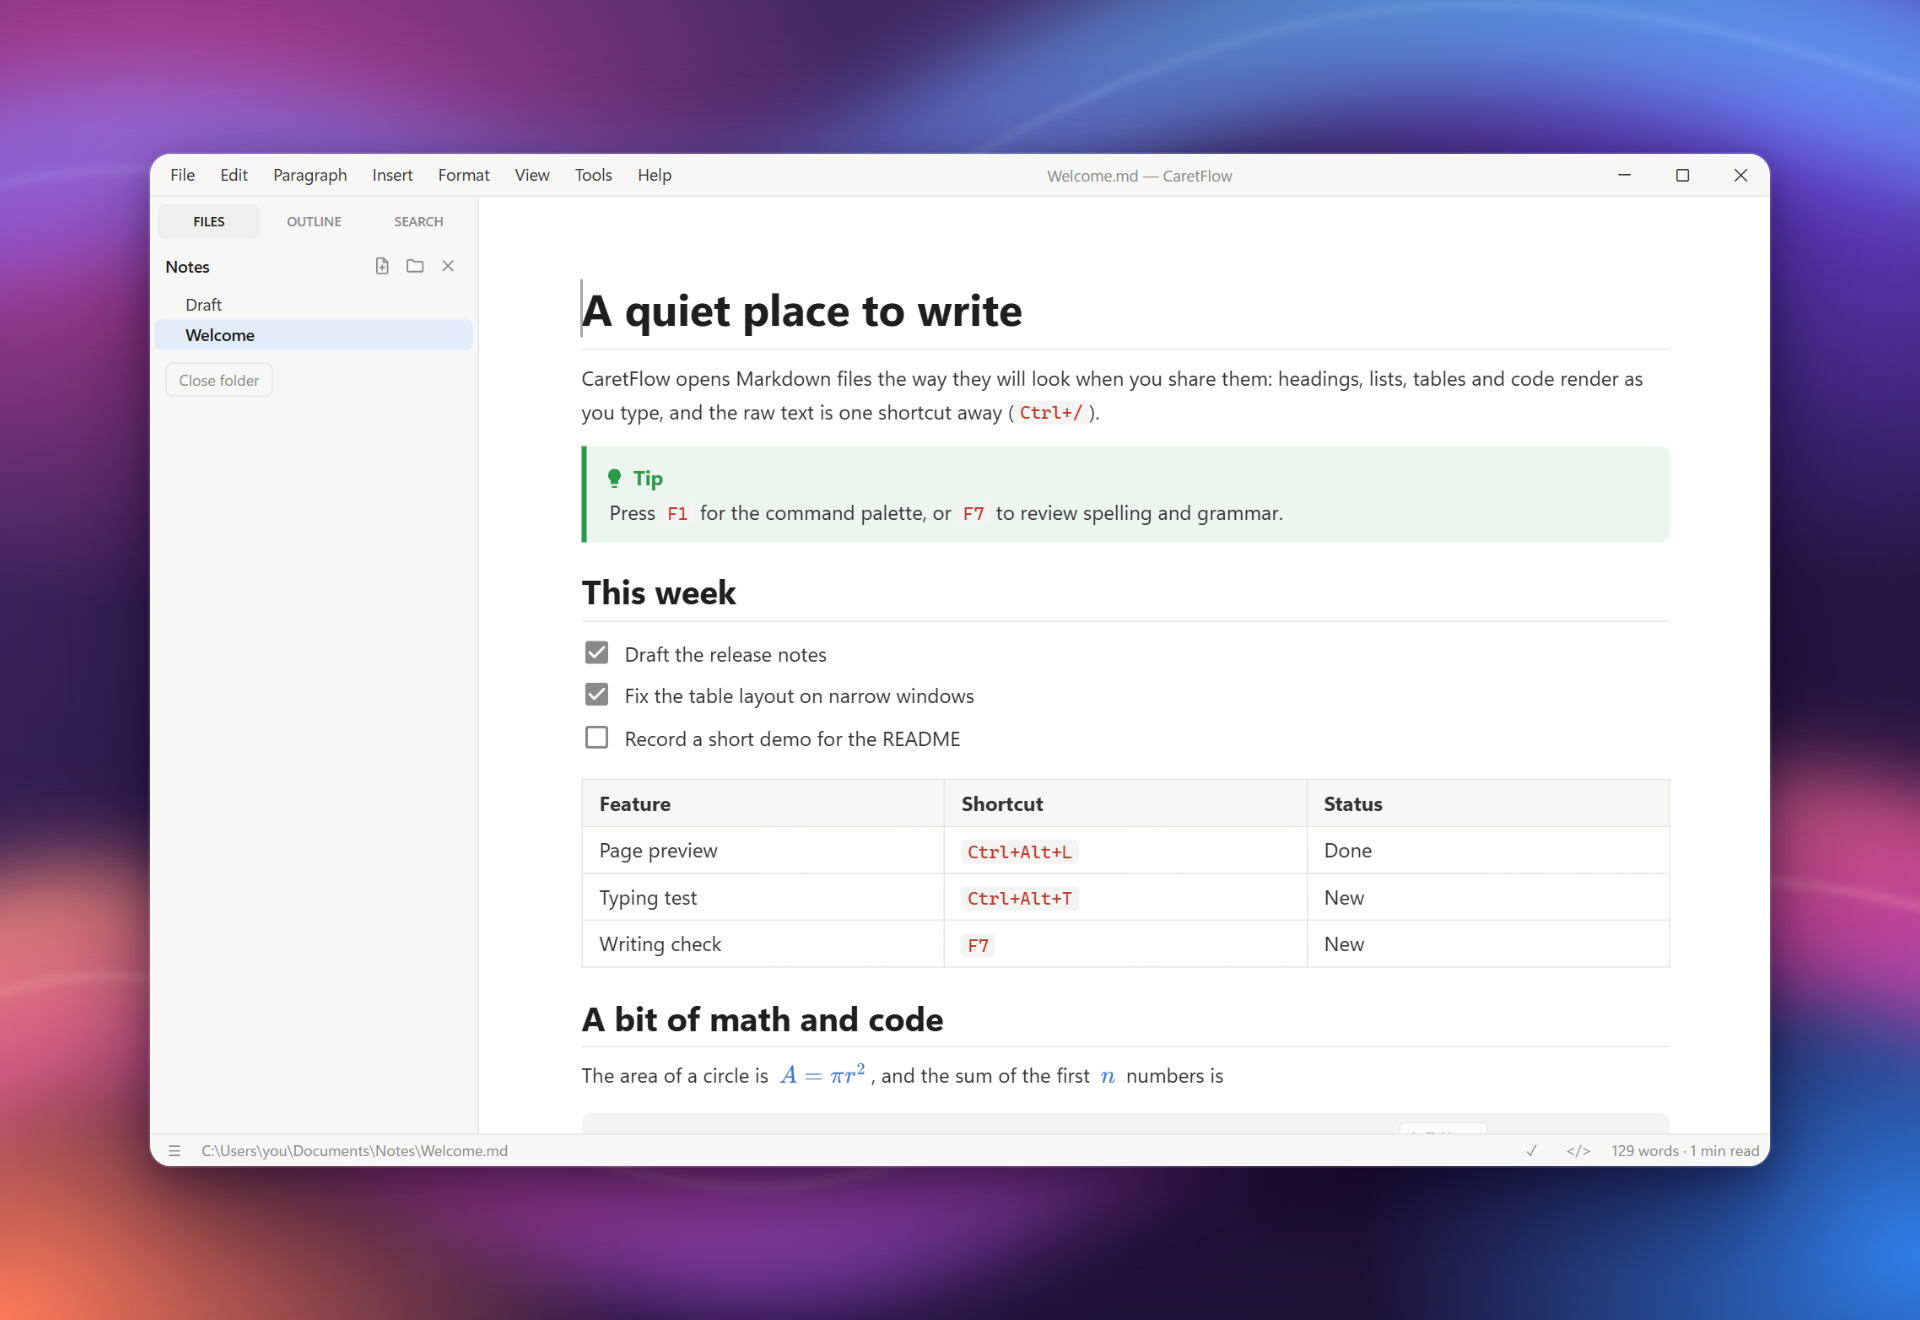
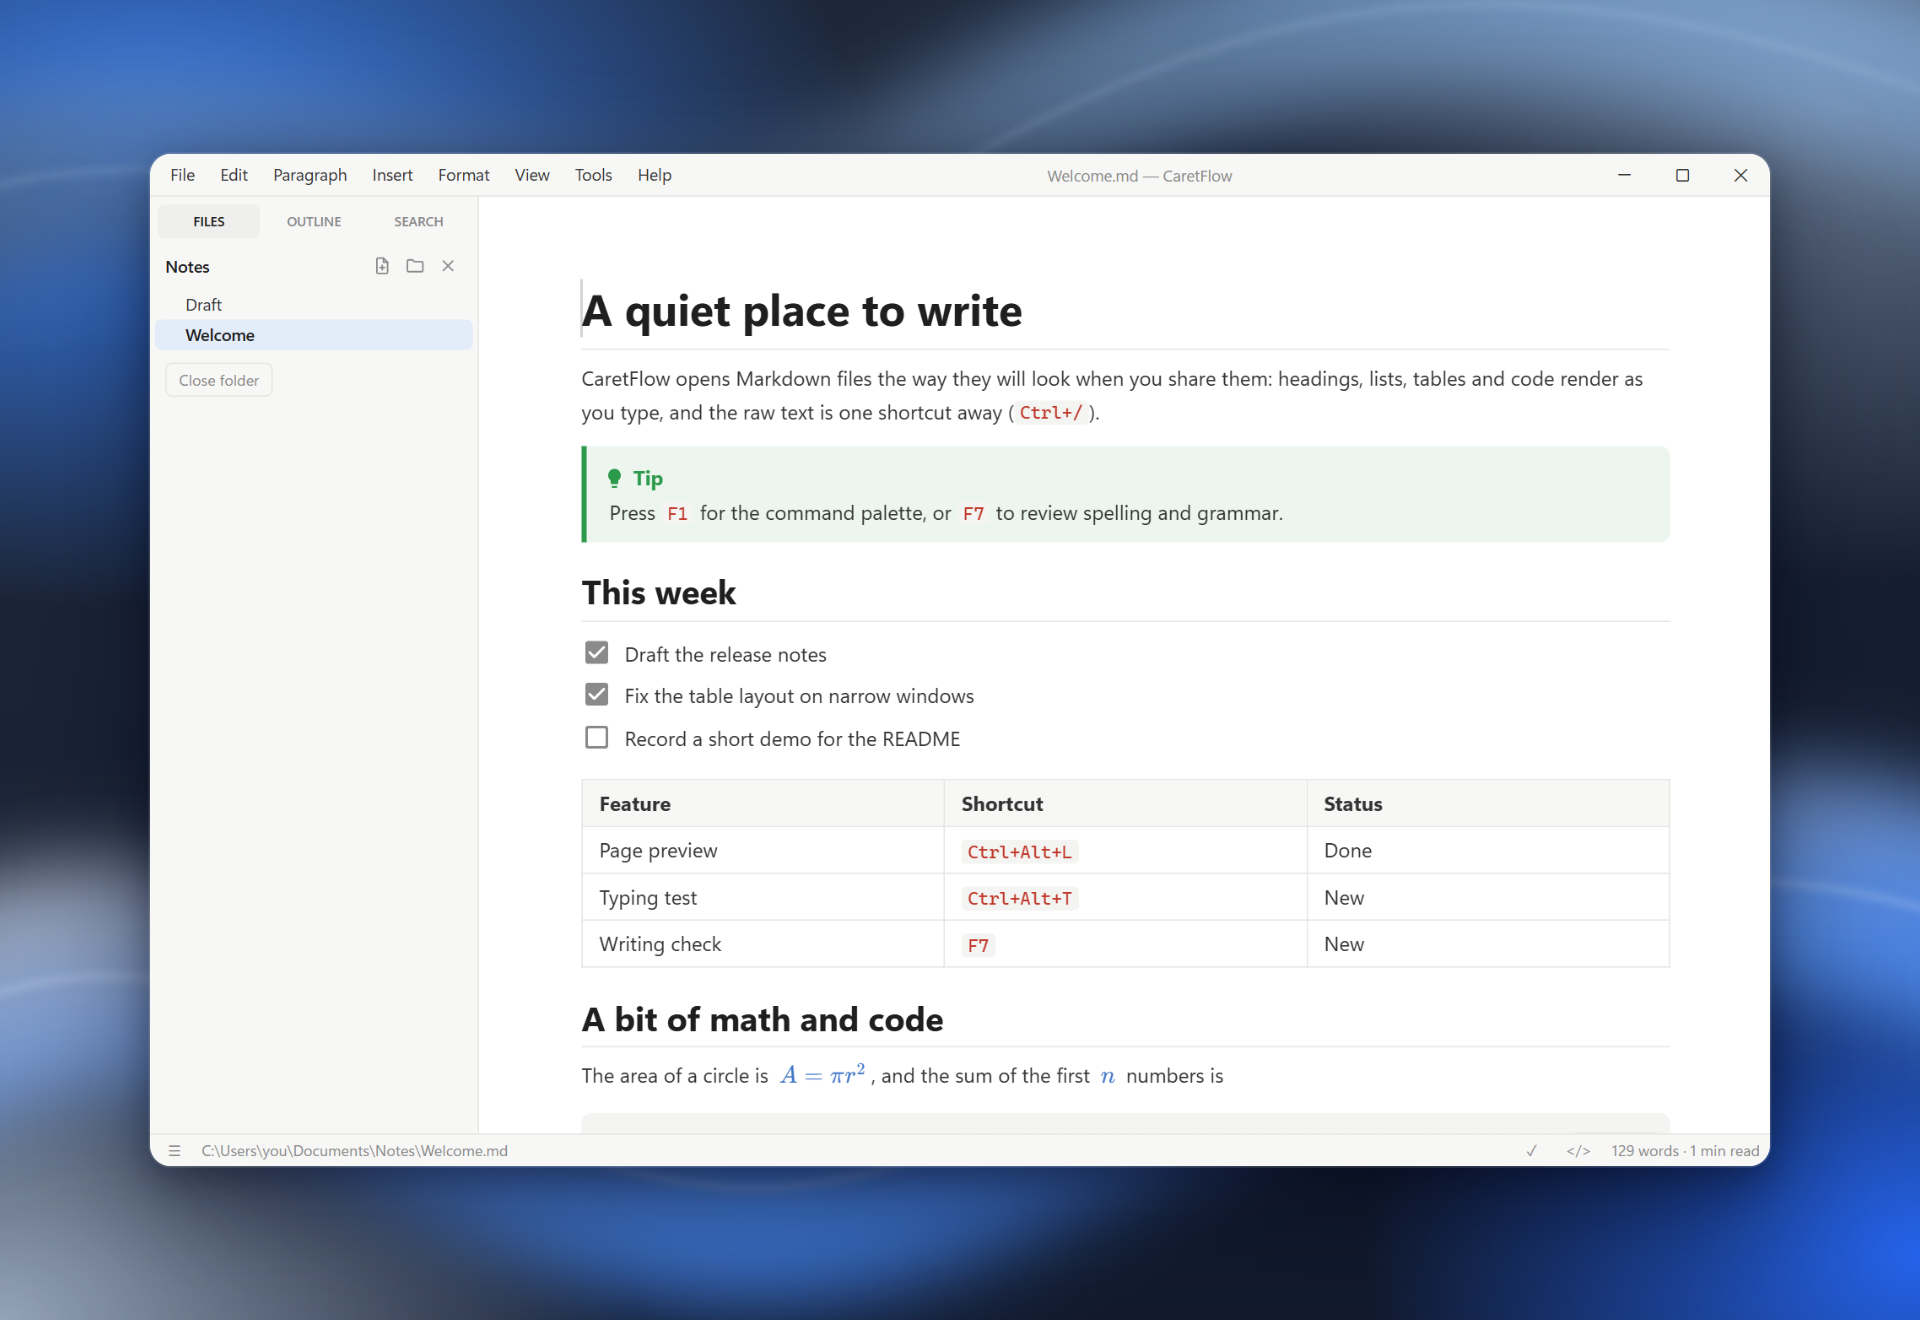
All-in-one tagline, shorter README, new screenshots
CaretFlow now calls itself the all-in-one Markdown editor: fast, minimal,
complete (README, About dialog, package descriptions, Markdown guide).
The README is a short overview with a screenshot grid; the comparison
with other editors is gone. Screenshots are regenerated, the hero on a
backdrop in the new icon colors.

Changed region(s): [[0.0, 0.0, 1.0, 1.0], [0.9062, 0.528, 1.0, 0.8076], [0.9688, 0.9318, 1.0, 0.9939]]

diff --git a/README.md b/README.md
@@ -2,169 +2,64 @@
 
 <img src="src-tauri/icons/128x128@2x.png" width="96" align="right" alt="">
 
-**A fast, quiet Markdown editor for Windows, Linux and Android.** You write, CaretFlow renders it in place:
-no split preview, no clutter. Raw Markdown and Vim are one shortcut away, and a built-in spelling
-and grammar checker catches mistakes as you type.
+**The all-in-one Markdown editor.** Fast, quiet and minimal on the surface, with everything you
+need underneath: live rendered editing, spelling and grammar, Vim, and export to PDF, Word and
+EPUB. For Windows, Linux and Android. Open source, private by default.
 
 ![CaretFlow editing a Markdown file with the file sidebar open](docs/screenshots/hero.png)
 
 <p align="center">
-  <a href="https://github.com/Sooeeren/CaretFlow/releases/latest"><b>Download the latest release</b></a> ·
+  <a href="https://github.com/Sooeeren/CaretFlow/releases/latest"><b>Download</b></a> ·
   <a href="#install">Install</a> ·
-  <a href="docs/SHORTCUTS.md">Shortcuts</a> ·
-  <a href="#documentation">Documentation</a>
+  <a href="docs/FEATURES.md">Features</a> ·
+  <a href="docs/SHORTCUTS.md">Shortcuts</a>
 </p>
 
-Built with Tauri 2 (Rust + the system webview), Milkdown/ProseMirror for live
-editing and CodeMirror 6 for source mode.
+## What's inside
+
+- **Write in the rendered document.** Tables, math, Mermaid, callouts and code render as you type; `Ctrl+/` shows the raw Markdown.
+- **Spelling & grammar, offline.** Underlines, right-click fixes and an `F7` review panel, in many languages.
+- **Vim mode** in source view, with visual block, macros and `:w`.
+- **Export** to PDF (with page preview), Word, OpenDocument, EPUB, LaTeX and HTML.
+- **Files and folders**: file tree, outline, folder search, quick open (`Ctrl+P`), command palette (`F1`).
+- **Yours to shape**: themes and a theme editor, Material You, custom shortcuts and menus, searchable preferences.
+- **Extensions** when you want them: Cloud Sync, AI Writing Help, a typing test, Discord status and offline LanguageTool.
+
+<table>
+  <tr>
+    <td><img src="docs/screenshots/writing.png" alt="Spelling suggestions on right-click"></td>
+    <td><img src="docs/screenshots/review.png" alt="The F7 review panel in the Sepia theme"></td>
+  </tr>
+  <tr>
+    <td><img src="docs/screenshots/dark.png" alt="Ink theme with the outline sidebar"></td>
+    <td><img src="docs/screenshots/source.png" alt="Source mode with Vim in the Slate theme"></td>
+  </tr>
+  <tr>
+    <td><img src="docs/screenshots/extensions.png" alt="Preferences → Extensions"></td>
+    <td><img src="docs/screenshots/bongo.png" alt="The typing cat and the WPM meter"></td>
+  </tr>
+</table>
 
 ## Install
 
 Pick a file from the [latest release](https://github.com/Sooeeren/CaretFlow/releases/latest):
 
-| Platform | File | How |
-| --- | --- | --- |
-| Windows | `CaretFlow_*_x64-setup.exe` | Installer; registers `.md` files |
-| Windows | `CaretFlow-portable.exe` | Runs without installing (needs WebView2, preinstalled on Windows 10/11) |
-| Linux (any) | `CaretFlow_*_amd64.AppImage` | `chmod +x` and run |
-| Debian / Ubuntu | `CaretFlow_*_amd64.deb` | `sudo apt install ./CaretFlow_*.deb` |
-| Fedora / RHEL / openSUSE | `caretflow-*.x86_64.rpm` | `sudo dnf install ./caretflow-*.rpm` |
-| Arch / Manjaro | `caretflow-bin-*-x86_64.pkg.tar.zst` | `sudo pacman -U ./caretflow-bin-*.pkg.tar.zst` |
-| Android 7+ | `CaretFlow-*.apk` | Open it on the phone; see [docs/ANDROID.md](docs/ANDROID.md) |
-
-The `.deb`, `.rpm` and Arch package register CaretFlow for Markdown files, so it shows up under
-"Open with" and can be made the default app.
-The Windows installer, AppImage, `.deb` and `.rpm` update themselves from inside the app; on Android,
-CaretFlow offers the new APK. To build
-CaretFlow yourself, see [docs/BUILDING.md](docs/BUILDING.md).
-
-## How is CaretFlow different?
-
-CaretFlow sits closest to [Typora](https://typora.io): you write in the rendered document, and the raw
-Markdown is one shortcut away. The differences are in what it is built around.
-
-- **Compared with Typora**, CaretFlow is open source (MIT), and spelling and grammar checking, Vim
-  mode and PDF export with page preview are built in.
-- **Compared with Obsidian**, it is a file editor, not a knowledge base: you open a file or a folder
-  and write, with no vault, plugins or linking features to set up.
-- **Compared with MarkText and Zettlr**, which are Electron apps, CaretFlow uses Tauri and the system
-  webview, so it is a small download that starts quickly. Zettlr aims at academic writing with
-  citations; CaretFlow aims at general writing with a Word-style writing check.
-- **Private by default**: no telemetry, and no network access unless you turn on LanguageTool, update
-  checks or Cloud Sync.
-
-Other apps change over time, so check their sites for their current features.
-
-**Platforms:** Windows, Linux and Android (phones and tablets, with a touch layout). There is no macOS build and none is planned right now, but it is
-not ruled out. Tauri supports macOS, so it depends on someone being able to build and test it.
-
-## Highlights
-
-- **What you see is what you write.** Headings, tables, task lists, math (KaTeX), Mermaid diagrams,
-  callouts, front matter, a table of contents, HTML and code with syntax highlighting render as you type. `Ctrl+/` shows the raw Markdown.
-  Right-click an image to resize it (10 % to 200 %).
-- **Spelling & grammar, offline.** Red and blue underlines, right-click suggestions, an `F7` review
-  panel and AutoCorrect. Nothing leaves your computer unless you choose LanguageTool for other languages.
-- **Vim mode** for source editing, including visual block, macros, registers and `:w` / `:q`.
-- **PDF export** with page preview, page breaks, headers, footers and page numbers; also from the
-  command line.
-- **Word (.docx) export** with Word styles, editable equations and embedded images, plus OpenDocument
-  (.odt), EPUB e-books, LaTeX, HTML and plain text.
-- **Files and folders**: sidebar with outline, file tree and folder search; quick open (`Ctrl+P`);
-  command palette (`F1`).
-- **Your menus, your shortcuts**: change any shortcut, and drag commands into your own menus and
-  submenus (Help → Customize Menus…), or start from a template for writers, students, developers
-  or note-takers.
-- **Four themes** (Paper, Sepia, Ink, Slate), **your own themes** made in a color editor, custom CSS, focus, typewriter and zen modes, and an
-  optional **Material You style** (View → Theme) with colors made from one color, or from your
-  wallpaper on Android 12+.
-- **Extensions you add when you want them**: Cloud Sync with your own server, AI writing help with
-  the AI you choose, a typing test, and your writing status on Discord. Until installed they stay
-  out of your menus.
-- **Optional extras**: a live WPM meter and a typing cat in eight styles, or one you make yourself (Tools menu).
-
-## Writing check
-
-CaretFlow checks spelling and grammar as you type. Red wavy lines mark spelling, blue double lines
-grammar (*their/they're*, *could of*, *a apple*, *I has*, repeated words), and amber dotted lines
-optional style hints. Right-click a marked word to fix it, ignore it or add it to your dictionary.
-
-![Right-click menu with spelling suggestions](docs/screenshots/writing.png)
-
-Press `F7` to walk through every issue one by one in a review panel. Number keys pick a
-suggestion, `Enter` applies the first one, and a clean document shows readability statistics.
-
-![The Spelling & Grammar review panel in the Sepia theme](docs/screenshots/review.png)
-
-The checker is [Harper](https://writewithharper.com), which runs on your computer (English). Paragraphs
-in other languages get that language's spelling dictionary, downloaded once and offline after that.
-For grammar in 30+ languages there is [LanguageTool](https://languagetool.org): its public server, or
-free and without limits on your own computer with the **Advanced Grammar** extension
-([docs/LANGUAGETOOL.md](docs/LANGUAGETOOL.md)). The **AI Writing Help**
-extension adds corrections and suggestions from the AI you choose. More in
-[docs/FEATURES.md](docs/FEATURES.md#writing-check).
-
-## Looks
-
-<table>
-  <tr>
-    <td><img src="docs/screenshots/dark.png" alt="Ink theme with the outline sidebar"></td>
-    <td><img src="docs/screenshots/source.png" alt="Source mode with Vim keybindings in the Slate theme"></td>
-  </tr>
-  <tr>
-    <td align="center">Ink theme, outline sidebar</td>
-    <td align="center">Source mode with Vim (<code>Ctrl+/</code>)</td>
-  </tr>
-</table>
-
-## Typing cat and WPM meter
-
-**Tools → Typing Speed (WPM)** shows your speed in the status bar and **Tools → Typing Cat** adds a
-small companion that taps along while you write, in eight styles (Classic, Midnight, Ginger Tabby,
-Russian Blue, Calico, Siamese, Tuxedo, Cookie; **Tools → Cat Style**), or one you color yourself with
-**Make Your Own Cat…**. Both are off by default.
-
-![The typing cat in the corner and the WPM meter in the status bar](docs/screenshots/bongo.png)
-
-## Extensions
-
-Bigger features come as extensions: they ship with CaretFlow, and you install them with one click
-in **Preferences → Extensions** (Tools → Extensions…). Until then they add no menus, tabs or
-settings, and their code never loads. Removing one keeps its settings.
-
-![Preferences → Extensions](docs/screenshots/extensions.png)
-
-| Extension | What it does |
+| Platform | File |
 | --- | --- |
-| **Cloud Sync** | Keeps a folder in sync with storage **you** choose: WebDAV (Nextcloud, NAS…), S3-compatible (B2, R2, MinIO, AWS), or Google Drive, Proton Drive and others through [rclone](https://rclone.org). A Cloud tab in the sidebar shows every file and its sync state. [Setup](docs/CLOUD-SYNC.md) |
-| **AI Writing Help** | Spelling, grammar and style suggestions from Claude, ChatGPT, Gemini, DeepSeek and others with your API key, or a model on your computer (Ollama, LM Studio), with limits you set. Or connect Claude Desktop, Cursor or VS Code over **MCP** to review your document. Nothing changes until you click Apply. [Details](docs/AI.md) · [MCP setup](docs/MCP.md) |
-| **Typing Test** | A minimal speed test by time or word count, or on your own document, with WPM, accuracy and a per-second chart. [Details](docs/FEATURES.md#typing-test-and-extras) |
-| **Advanced Grammar** | LanguageTool's full grammar and style checking for 30+ languages, running on your computer: no request limits, and your text stays there. Downloads LanguageTool and Java once (about 300 MB), starts in the background when you write, and optionally adds n-gram data that catches *their/there*. Windows and Linux. [Details](docs/LANGUAGETOOL.md) |
-| **Discord Status** | Shows the CaretFlow logo on your Discord profile with what you are doing (writing or reading), the word count, source mode or Vim and how long you've been at it. The file name stays private unless you turn it on. Windows and Linux. [Details](docs/FEATURES.md#discord-status) |
+| Windows | `CaretFlow_*_x64-setup.exe` (installer) or `CaretFlow-portable.exe` |
+| Linux | `.AppImage`, `.deb`, `.rpm` or the Arch package `caretflow-bin` |
+| Android 7+ | `CaretFlow-*.apk` ([details](docs/ANDROID.md)) |
 
-CaretFlow has no servers or accounts of its own: Cloud Sync and AI Writing Help only talk to the
-services you set up, and only once you turn them on.
+CaretFlow updates itself from inside the app. To build it yourself, see [docs/BUILDING.md](docs/BUILDING.md).
 
 ## Documentation
 
-| | |
-| --- | --- |
-| [Keyboard shortcuts](docs/SHORTCUTS.md) | Every default shortcut, by menu |
-| [Features in detail](docs/FEATURES.md) | Writing check, Vim, PDF/Word/EPUB export and preview, callouts, updates, command line |
-| [Extensions](docs/EXTENSIONS.md) | Installing and removing extensions, what each one adds |
-| [Cloud Sync](docs/CLOUD-SYNC.md) | Setting up WebDAV, S3 and rclone; how syncing works |
-| [AI Writing Help](docs/AI.md) · [MCP setup](docs/MCP.md) | Providers and keys, local models, every setting and limit; connecting your AI app |
-| [Android](docs/ANDROID.md) | Installing, files and folders, the touch layout, what differs from the desktop |
-| [Notes](docs/NOTES.md) | Privacy and network access, platform notes, where files are stored |
-| [Privacy Policy](docs/PRIVACY.md) · [Terms of Service](docs/TERMS.md) | What is sent where, and the terms for the app, its extensions and the website |
-| [Building](docs/BUILDING.md) · [Releasing](docs/RELEASING.md) | For developers |
-
-In the app, **Help → Markdown Guide** shows the Markdown syntax and **Shift+F1** all shortcuts.
+[Features](docs/FEATURES.md) · [Shortcuts](docs/SHORTCUTS.md) · [Extensions](docs/EXTENSIONS.md) ·
+[Cloud Sync](docs/CLOUD-SYNC.md) · [AI](docs/AI.md) · [MCP](docs/MCP.md) · [Android](docs/ANDROID.md) ·
+[Notes](docs/NOTES.md) · [Privacy](docs/PRIVACY.md) · [Terms](docs/TERMS.md) · [Building](docs/BUILDING.md)
 
 ## Made with AI
 
-CaretFlow is written almost entirely by AI coding assistants, steered and tested by its maintainer.
-**Help → About CaretFlow** shows how many lines each model wrote, counted from the git history.
-
-Working on CaretFlow with an AI assistant? Start with [AGENTS.md](AGENTS.md): it explains the project,
-its goals and conventions, and how to credit the model in commits.
+CaretFlow is written almost entirely by AI coding assistants, steered and tested by its maintainer;
+**Help → About** shows how many lines each model wrote. Working on it with an AI assistant? Start
+with [AGENTS.md](AGENTS.md).

diff --git a/AGENTS.md b/AGENTS.md
@@ -205,3 +205,4 @@ Add a row when you finish a piece of work (newest last). Keep it short.
 | Claude Opus 5.5 | Claude Code | 2026-11-25 | Menu templates for kinds of users (Minimal, Writer, Student & Academic, Developer & Technical Writer, Note-taker) in Customize Menus and Preferences → Menus (src/menutemplates.js) |
 | Claude Opus 5.5 | Claude Code | 2026-11-25 | 0.13.1 release: version bump, notes, draft and publish, PKGBUILD checksum, website redeploy |
 | Claude Opus 5.5 | Claude Code | 2026-11-25 | Code block language button never over code, its list above other blocks; window buttons always visible, menus that don't fit go into » (src/codetools.js, scripts/checks/codetools.mjs) |
+| Claude Opus 5.5 | Claude Code | 2026-11-26 | New icon colors (alabaster, navy, cobalt); code block language button in the corner until hover, its list kept inside the window; Preferences search; image storage choices (Insert → When Adding Images); all-in-one tagline, shorter README |
